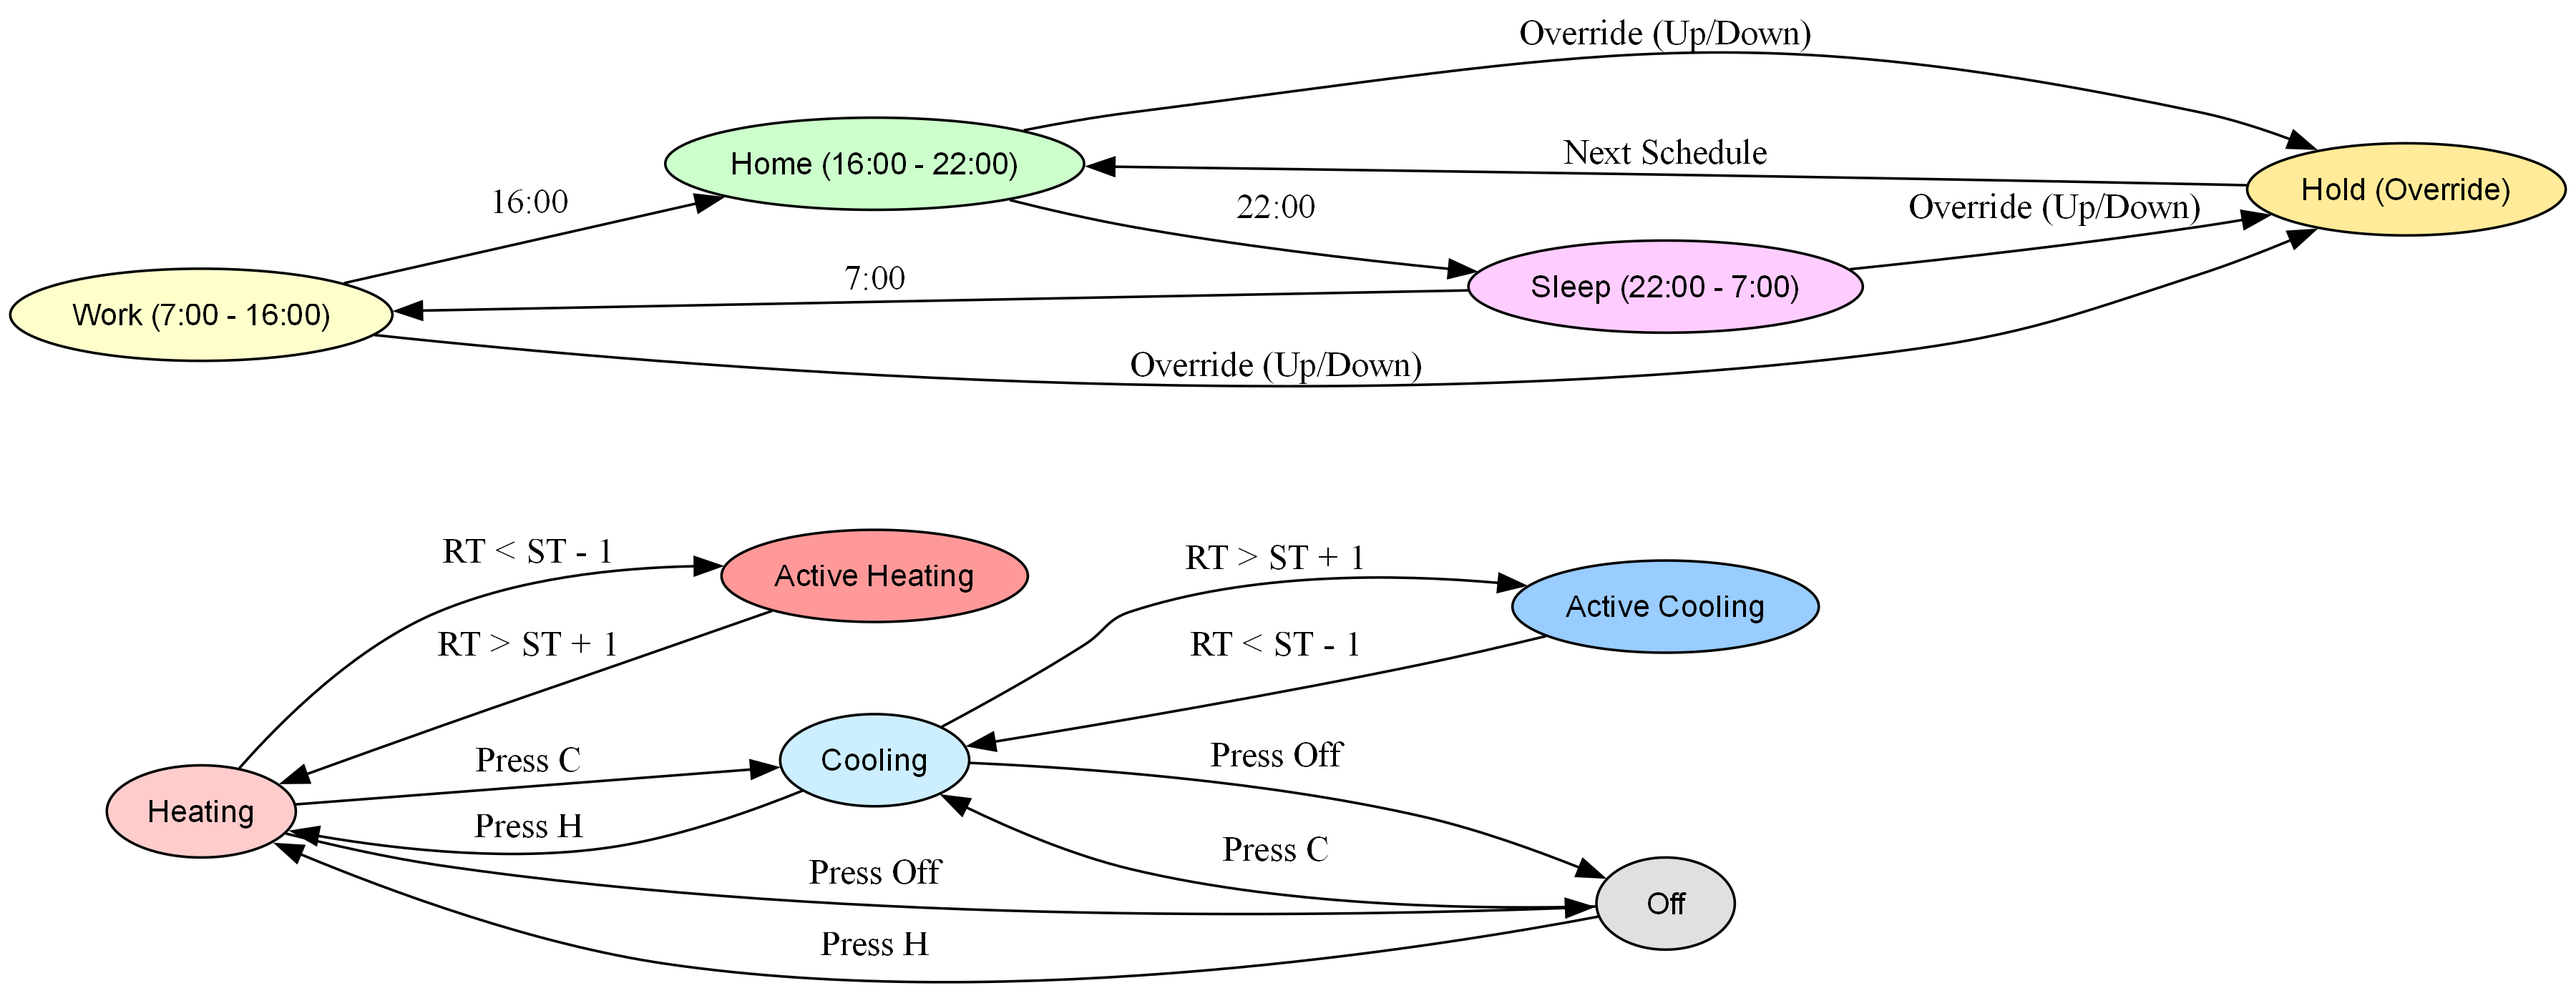
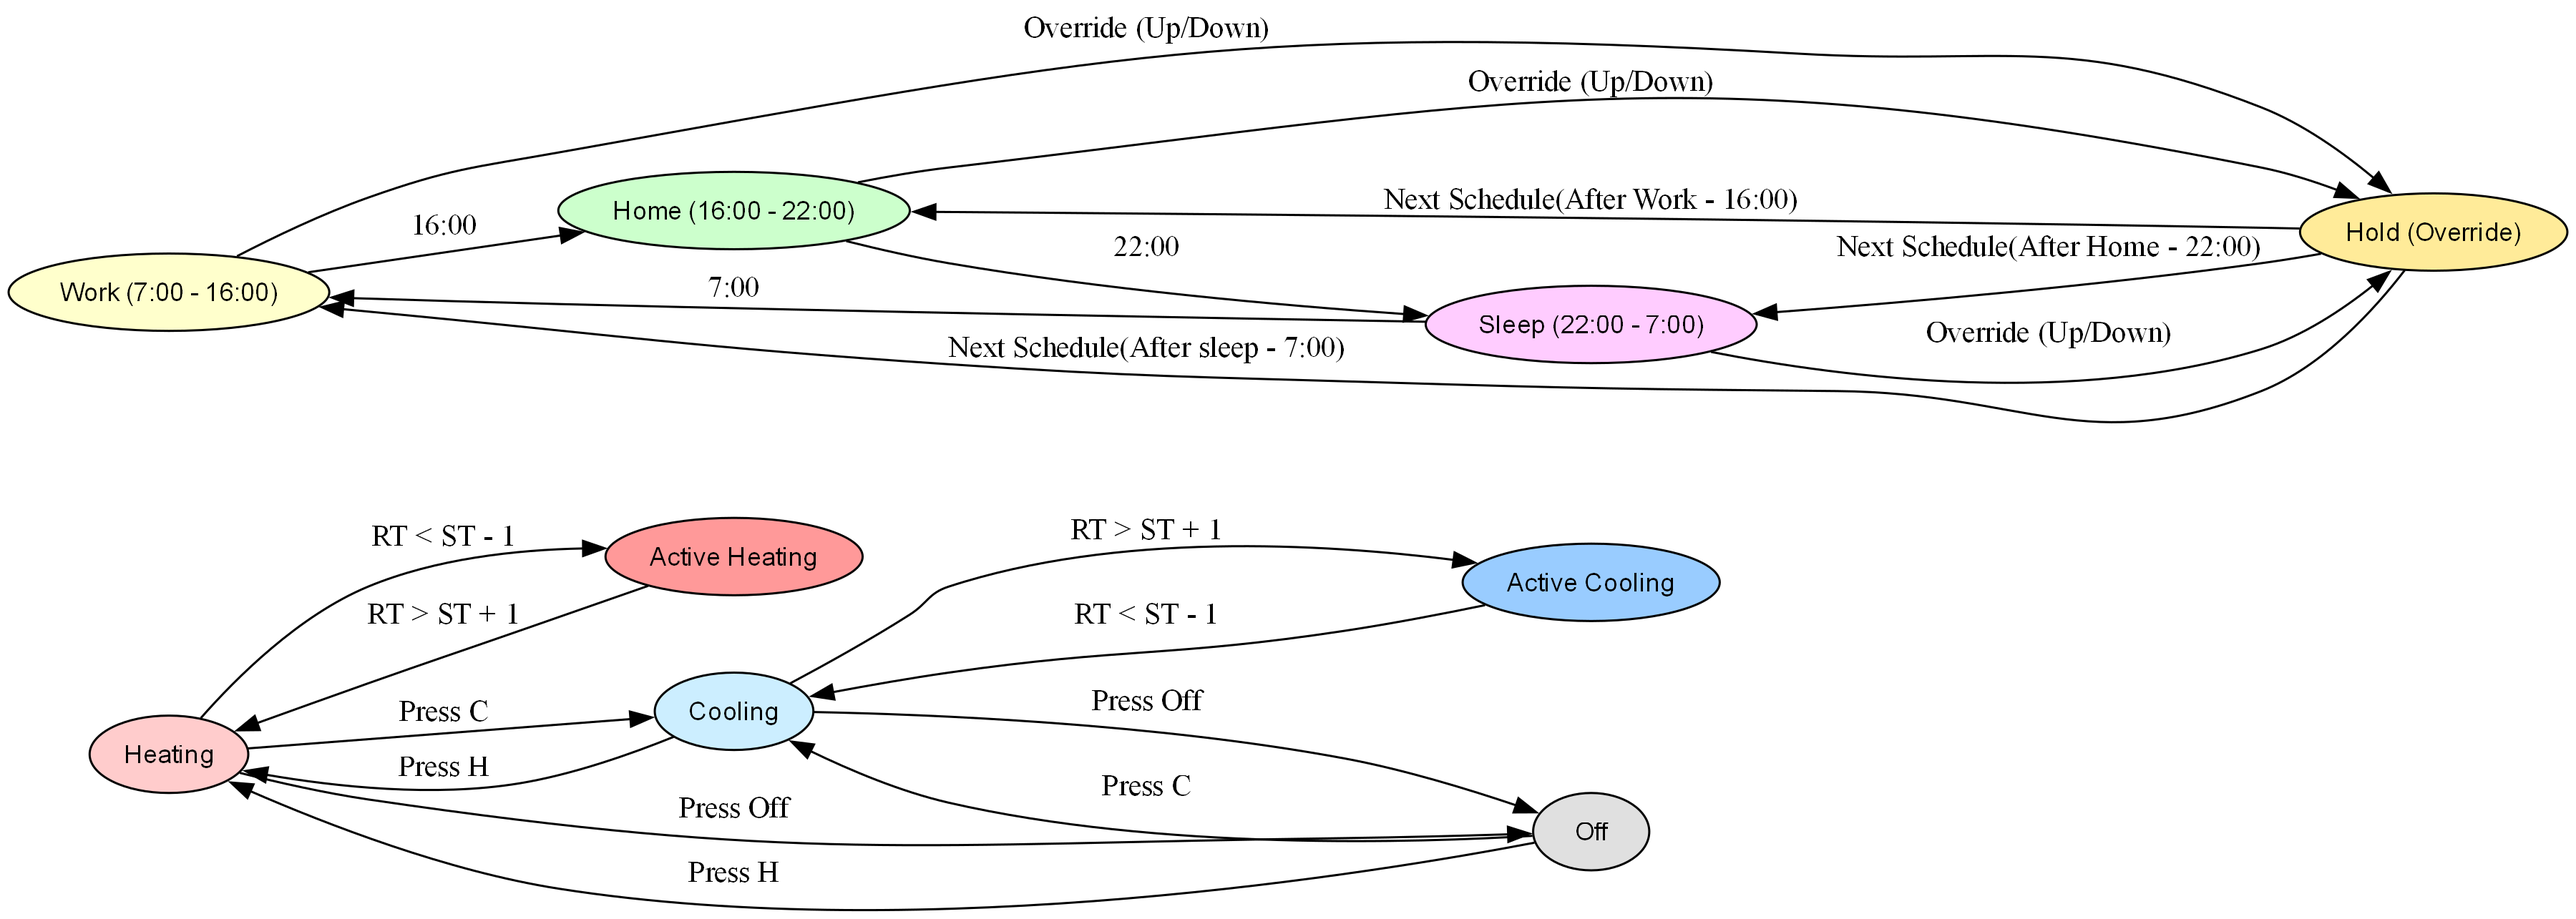
changed statechart, added model

diff --git a/Python_Simulation/thermostat.py b/Python_Simulation/thermostat.py
@@ -1,0 +1,206 @@
+import numpy as np
+import matplotlib.pyplot as plt
+from enum import Enum, auto
+
+class ThermostatMode(Enum):
+    OFF = auto()
+    HEATING = auto()
+    COOLING = auto()
+
+class ThermostatState(Enum):
+    OFF = auto()
+    H = auto()
+    AH = auto()
+    C = auto()
+    AC = auto()
+
+class Thermostat:
+    def __init__(self):
+        self.mode = ThermostatMode.OFF
+        self.state = ThermostatState.OFF
+
+        self.scheduled_temps = {"Work": 68 , "Home": 72, "Sleep": 65}
+        self.schedule_times = {"Work": (7, 16), "Home": (16, 22), "Sleep": (22, 7)}
+
+        self.current_schedule = "Work"
+        self.set_temperature = self.scheduled_temps[self.current_schedule]
+        self.room_temperature = 72
+
+        self.hold_mode = False
+        self.heating_active = False
+        self.cooling_active = False
+        self.deadband = 1
+
+    def set_mode(self, mode: ThermostatMode):
+        self.mode = mode
+        if mode == ThermostatMode.OFF:
+            self.state = ThermostatState.OFF
+            self.heating_active = False
+            self.cooling_active = False
+
+    def adjust_temperature(self, up: bool, down: bool):
+        if up or down:
+            self.hold_mode = True
+            self.current_schedule = "Hold"
+        if up:
+            self.set_temperature += 1
+        if down:
+            self.set_temperature -= 1
+
+    def update_schedule(self, current_time: float):
+        if self.hold_mode:
+            # Exit Hold state at the next schedule transition
+            for schedule, (start, end) in self.schedule_times.items():
+                if abs(current_time - start) < 0.1 or abs(current_time - end) < 0.1:
+                    self.hold_mode = False
+                    self.current_schedule = schedule
+                    self.set_temperature = self.scheduled_temps[schedule]
+                    break
+        else:
+            for schedule, (start, end) in self.schedule_times.items():
+                if start <= current_time < end or (end < start and (current_time >= start or current_time < end)):
+                    self.current_schedule = schedule
+                    self.set_temperature = self.scheduled_temps[schedule]
+                    break
+
+    def update_state(self):
+        if self.mode == ThermostatMode.HEATING:
+            if self.room_temperature < self.set_temperature - self.deadband:
+                self.state = ThermostatState.AH
+                self.heating_active = True
+            elif self.room_temperature > self.set_temperature + self.deadband:
+                self.state = ThermostatState.H
+                self.heating_active = False
+        elif self.mode == ThermostatMode.COOLING:
+            if self.room_temperature > self.set_temperature + self.deadband:
+                self.state = ThermostatState.AC
+                self.cooling_active = True
+            elif self.room_temperature < self.set_temperature - self.deadband:
+                self.state = ThermostatState.C
+                self.cooling_active = False
+        else:
+            self.state = ThermostatState.OFF
+            self.heating_active = False
+            self.cooling_active = False
+
+    def simulate_step(self, mode, up, down, room_temp, current_time):
+        self.set_mode(ThermostatMode[mode])
+        self.update_schedule(current_time)
+        self.adjust_temperature(up, down)
+        self.room_temperature = room_temp
+        self.update_state()
+
+        return {
+            "Time": current_time,
+            "Schedule": self.current_schedule,
+            "Mode": self.mode.name,
+            "State": self.state.name,
+            "ST": self.set_temperature,
+            "RT": self.room_temperature,
+            "AH": int(self.heating_active),
+            "AC": int(self.cooling_active),
+            "Hold": int(self.hold_mode)
+        }
+
+# Initialize thermostat
+thermostat = Thermostat()
+
+# Simulation parameters
+duration_hours = 24
+time_step = 0.1
+time_points = int(duration_hours / time_step)
+
+# Inputs
+modes = ["HEATING", "COOLING", "OFF"]
+mode_pattern = []
+for i in range(time_points):
+    current_time = (i * time_step) % 24
+    if 0 <= current_time < 4:
+        mode_pattern.append("OFF")
+    elif 4 <= current_time < 8:
+        mode_pattern.append("HEATING")
+    elif 8 <= current_time < 12:
+        mode_pattern.append("OFF")
+    elif 12 <= current_time < 16:
+        mode_pattern.append("COOLING")
+    elif 16 <= current_time < 20:
+        mode_pattern.append("OFF")
+    else:
+        mode_pattern.append("HEATING")
+
+
+# Set toggle times for up and down
+toggle_times_up = np.random.choice(time_points, 2, replace=False)
+toggle_times_down = np.random.choice(time_points, 2, replace=False)
+
+up_button_signal = np.zeros(time_points, dtype=bool)
+down_button_signal = np.zeros(time_points, dtype=bool)
+
+up_button_signal[toggle_times_up] = True
+down_button_signal[toggle_times_down] = True
+
+# Room temperature variation
+room_temp_pattern = 68 + 4 * np.sin(np.linspace(0, 4 * np.pi, time_points))
+
+# Storage for results
+results = []
+
+for i in range(time_points):
+    current_time = (i * time_step) % 24
+    result = thermostat.simulate_step(
+        mode=mode_pattern[i],
+        up=up_button_signal[i],
+        down=down_button_signal[i],
+        room_temp=room_temp_pattern[i],
+        current_time=current_time
+    )
+    results.append(result)
+
+results = {key: [r[key] for r in results] for key in results[0]}
+
+# Map states to numerical values
+state_mapping = {'OFF': 0, 'H': 1, 'AH': 2, 'C': -1, 'AC': -2}
+results['State'] = [state_mapping[state] for state in results['State']]
+
+# Map schedules to numerical values
+schedule_mapping = {'Sleep': 0, 'Work': 1, 'Home': 2, 'Hold': 3}
+results['Schedule'] = [schedule_mapping[schedule] for schedule in results['Schedule']]
+
+# Plotting
+plt.figure(figsize=(12, 12))
+
+# State plot
+plt.subplot(6, 1, 1)
+plt.plot(results['Time'], results['State'], label='State')
+plt.yticks([-2, -1, 0, 1, 2], ['AC', 'C', 'OFF', 'H', 'AH'])
+plt.legend()
+plt.title('Thermostat State Changes')
+
+# Up toggle
+plt.subplot(6, 1, 2)
+plt.plot(results['Time'], up_button_signal, label='Up', linestyle='--')
+plt.legend()
+plt.title('Up Adjustments')
+
+# Down toggle
+plt.subplot(6, 1, 3)
+plt.plot(results['Time'], down_button_signal, label='Down', linestyle='--', color='orange')
+plt.legend()
+plt.title('Down Adjustments')
+
+# Schedule states
+plt.subplot(6, 1, 4)
+plt.plot(results['Time'], results['Schedule'], label='Schedule')
+plt.yticks([0, 1, 2, 3], ['Sleep', 'Work', 'Home', 'Hold'])
+plt.legend()
+plt.title('Schedule States')
+
+# Room vs Set Temperature
+plt.subplot(6, 1, 5)
+plt.plot(results['Time'], results['RT'], label='Room Temp')
+plt.plot(results['Time'], results['ST'], label='Set Temp')
+plt.legend()
+plt.title('Room vs Set Temperature')
+
+plt.tight_layout()
+plt.show()

diff --git a/Statechart/thermostat_statechart.py b/Statechart/thermostat_statechart.py
@@ -40,7 +40,9 @@ dot.edge("Sleep", "Work", label="7:00")
 dot.edge("Work", "Hold", label="Override (Up/Down)")
 dot.edge("Home", "Hold", label="Override (Up/Down)")
 dot.edge("Sleep", "Hold", label="Override (Up/Down)")
-dot.edge("Hold", "Home", label="Next Schedule")
+dot.edge("Hold", "Home", label="Next Schedule(After Work - 16:00)")
+dot.edge("Hold", "Sleep", label="Next Schedule(After Home - 22:00)")
+dot.edge("Hold", "Work", label="Next Schedule(After sleep - 7:00)")
 
 # Render the statechart
 dot.render("thermostat_statechart", format="png", cleanup=False)
